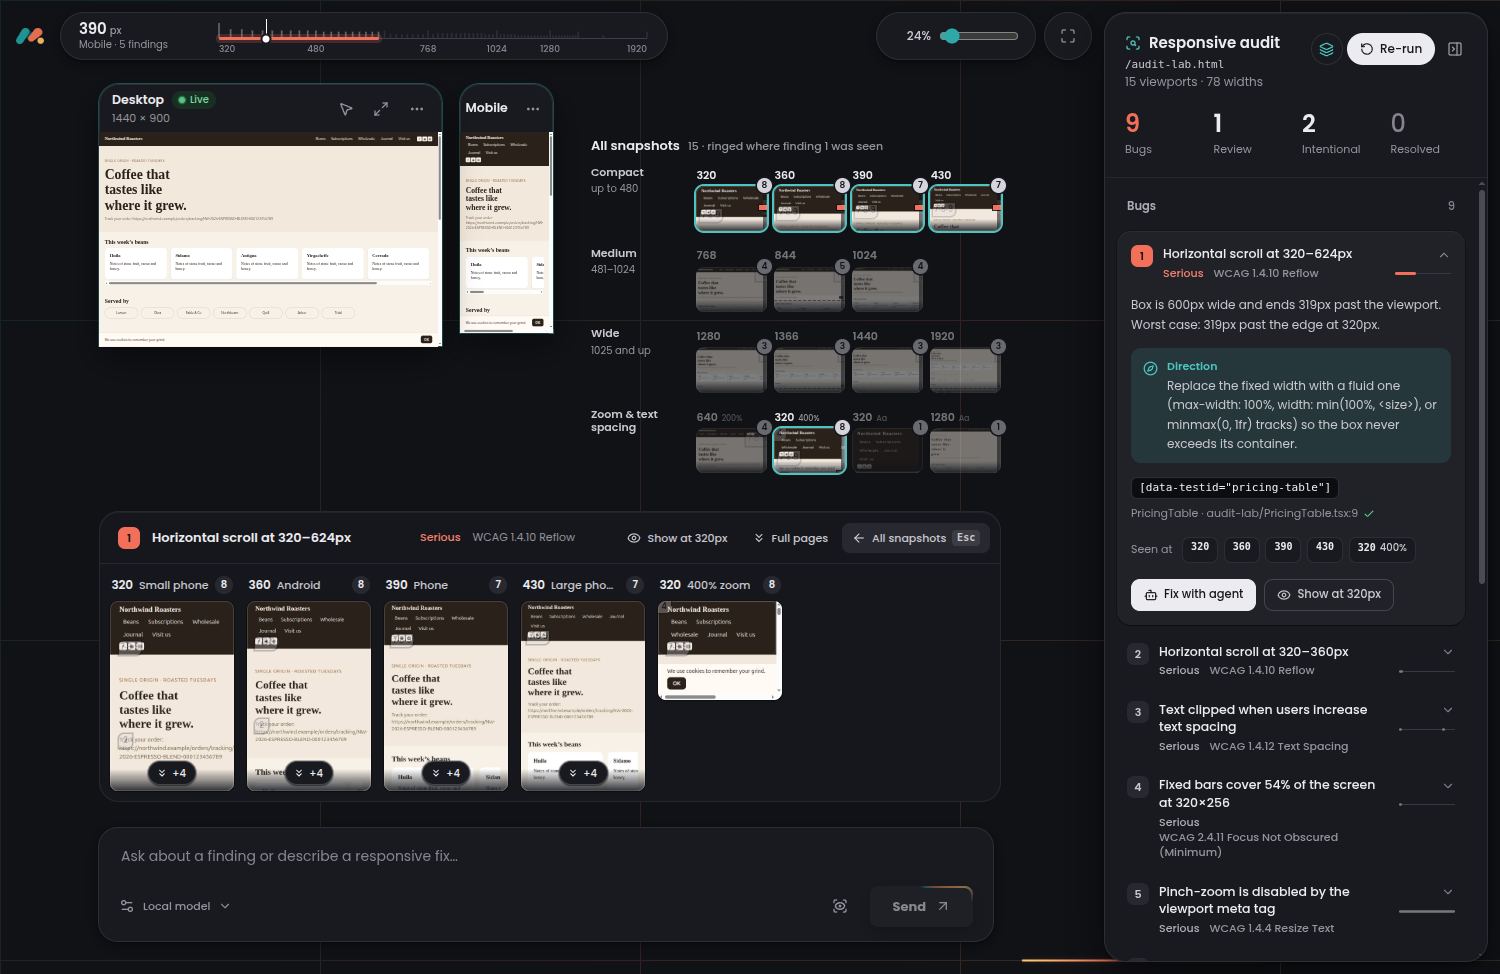
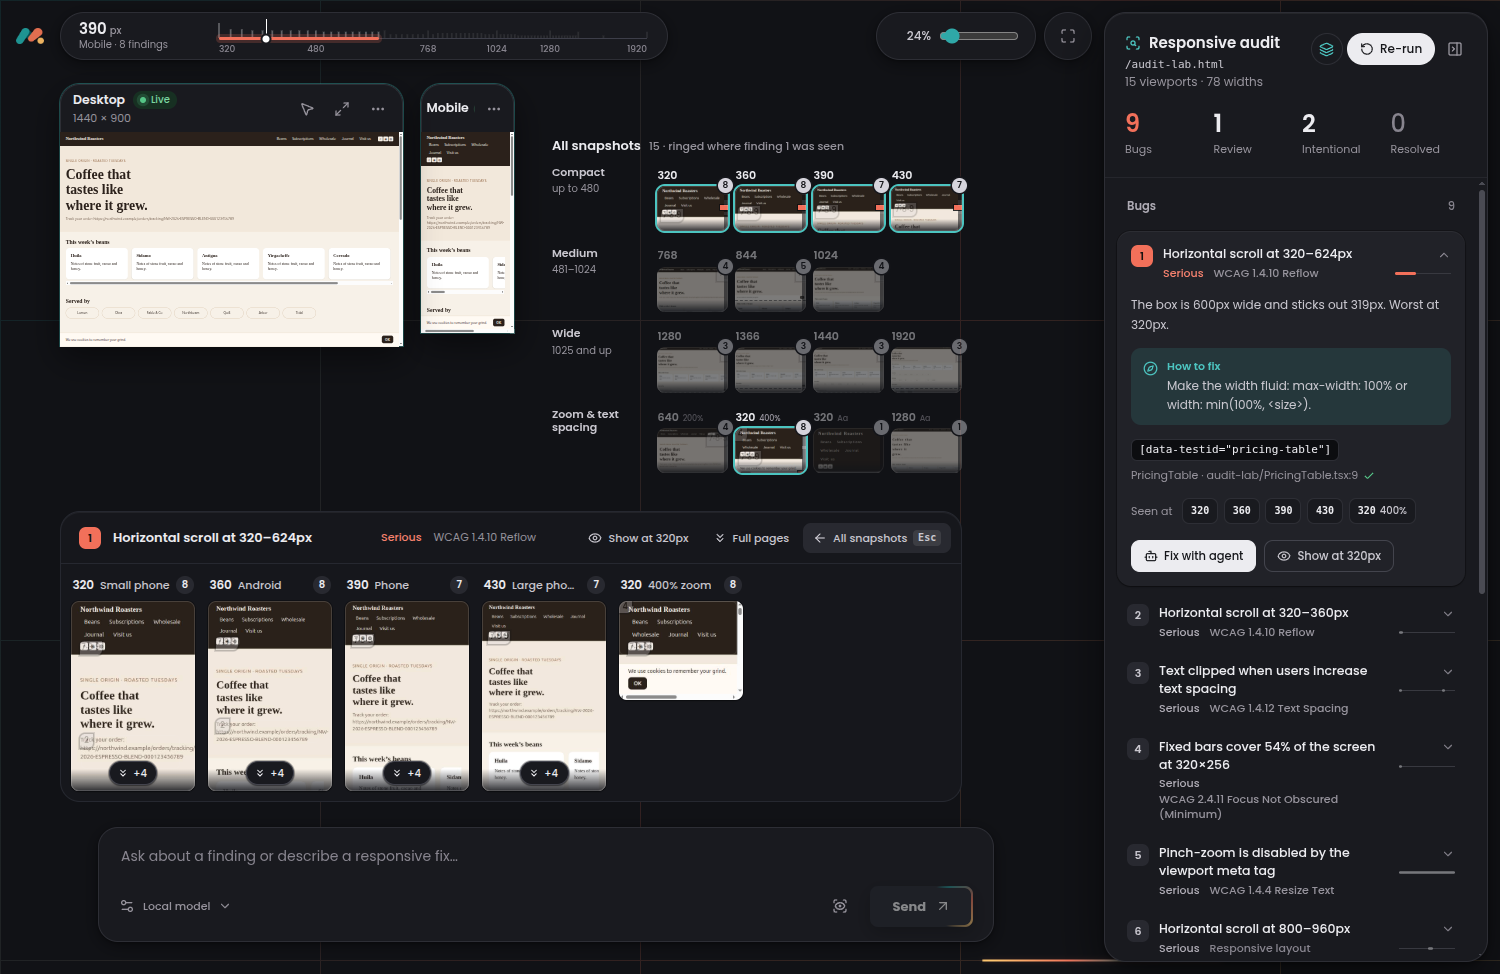
docs: align the README screenshot's canvas with the width scope
The screenshot run pans the canvas so the Desktop preview's left edge lines
up with the width scope before capturing, and the image is regenerated with
the shorter finding text.

diff --git a/tests/browser-e2e/readme-screenshot.spec.ts b/tests/browser-e2e/readme-screenshot.spec.ts
@@ -19,6 +19,15 @@ test("captures the workspace after the entry audit for the README", async ({}, t
     await expect(page.locator(".workspace-notice")).toHaveCount(0, { timeout: 15_000 });
     await panel.locator(".finding-card .finding-summary").first().click();
     await page.waitForTimeout(1_000);
+
+    // Pan so the Desktop preview's left edge lines up with the width scope above it; the fit alone leaves them a zoom-dependent offset apart.
+    const desktop = page.locator('.artboard[data-preview-id="desktop"]');
+    const scope = (await page.locator(".width-scope").boundingBox())!;
+    const board = (await desktop.boundingBox())!;
+    await page.mouse.move(board.x + board.width / 2, board.y + board.height + 40);
+    await page.mouse.wheel(board.x - scope.x, 0);
+    await expect.poll(async () => Math.round((await desktop.boundingBox())!.x - scope.x)).toBe(0);
+    await page.waitForTimeout(500);
     await page.screenshot({ path: output });
     await page.screenshot({ path: testInfo.outputPath("mauxi-workspace.png") });
   } finally {
